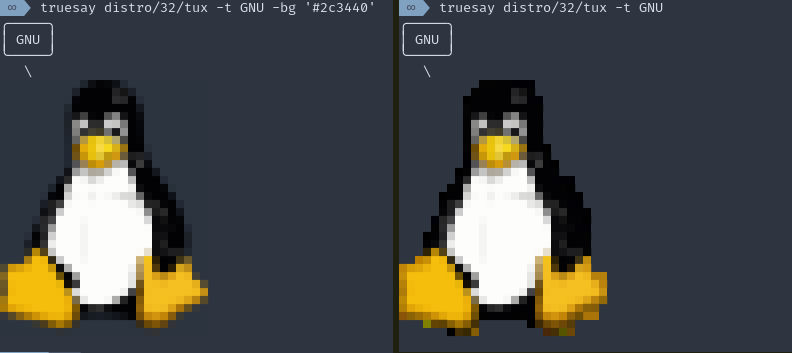
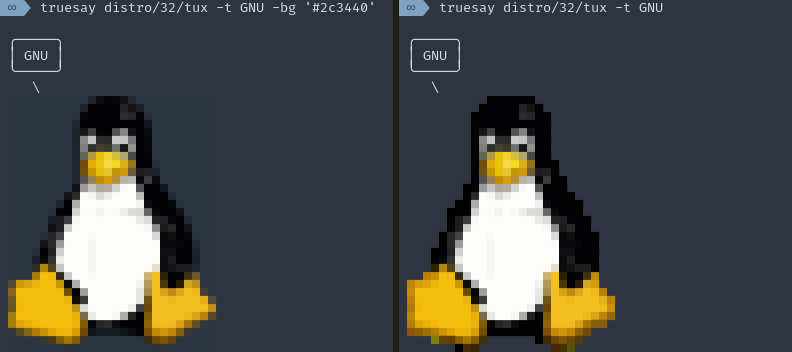
Fix trailing pixels in high resolution

diff --git a/src/ansi.js b/src/ansi.js
@@ -59,7 +59,7 @@ class Text {
 
   ansi () {
     if (!this.hasBackground() && !this.hasForeground()) {
-      return Text.reset() + this.str
+      return this.str
     }
 
     let text = ''
@@ -73,7 +73,7 @@ class Text {
     } else if (this.fgColor) {
       text += '\x1b[38;5;' + this.fgColor + 'm'
     }
-    return text + this.str
+    return text + this.str + Text.reset()
   }
 }
 
